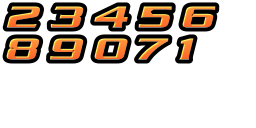
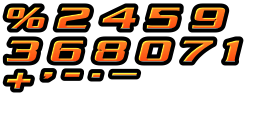
폰트 디자인 적용 버그 픽스

diff --git a/Classes/MaingameScene.cpp b/Classes/MaingameScene.cpp
@@ -786,7 +786,7 @@ void Maingame::showDamageMissile( CCPoint t_position, int t_damage )
 	container->setPosition(t_position);
 	game_node->addChild(container, goldZorder);
 	
-	CountingBMLabel* damage_label = CountingBMLabel::create("0", "missile_damage_label.fnt", 0.5f, "%d");
+	CountingBMLabel* damage_label = CountingBMLabel::create("1", "missile_damage_label.fnt", 0.3f, "%d");
 	container->addChild(damage_label, goldZorder);
 	
 	damage_label->setString(CCString::createWithFormat("%d", t_damage)->getCString());

diff --git a/Classes/PlayUI.cpp b/Classes/PlayUI.cpp
@@ -493,7 +493,7 @@ void GetPercentage::selfRemove ()
 }
 void GetPercentage::myInit (float t_gp, bool is_item)
 {
-	my_label = CCLabelBMFont::create(CCString::createWithFormat("%.1f", t_gp < 0.01f ? 0.f : t_gp)->getCString(), "font_get_percentage.fnt");
+	my_label = CCLabelBMFont::create(CCString::createWithFormat("%.1f%%", t_gp < 0.01f ? 0.f : t_gp)->getCString(), "gain.fnt");
 	my_label->setScale(1.f/1.5f);
 	my_label->setAlignment(kCCTextAlignmentRight);
 	addChild(my_label, kZorderGetPercentage_label);

diff --git a/Classes/GameItemManager.cpp b/Classes/GameItemManager.cpp
@@ -1005,7 +1005,7 @@ void FeverCoinParent::removing()
 	remove_target->startRemove();
 	remove_target_list.pop_front();
 	
-	mySGD->setGold(mySGD->getGold() + 10);
+	mySGD->setGold(mySGD->getGold() + int(10.f*myDSH->getIntegerForKey(kDSH_Key_selectedPuzzleNumber)/(myDSH->getIntegerForKey(kDSH_Key_openPuzzleCnt)+1.f)));
 	
 	if(remove_target_list.empty())
 	{

diff --git a/Classes/PuzzleMapScene.cpp b/Classes/PuzzleMapScene.cpp
@@ -1428,6 +1428,7 @@ void PuzzleMapScene::stopChangeUiMode()
 
 void PuzzleMapScene::startChangeMapMode()
 {
+	is_menu_enable = false;
 	myDSH->setPuzzleMapSceneShowType(kPuzzleMapSceneShowType_stage);
 	map_mode_state = kMMS_changeMode;
 	
